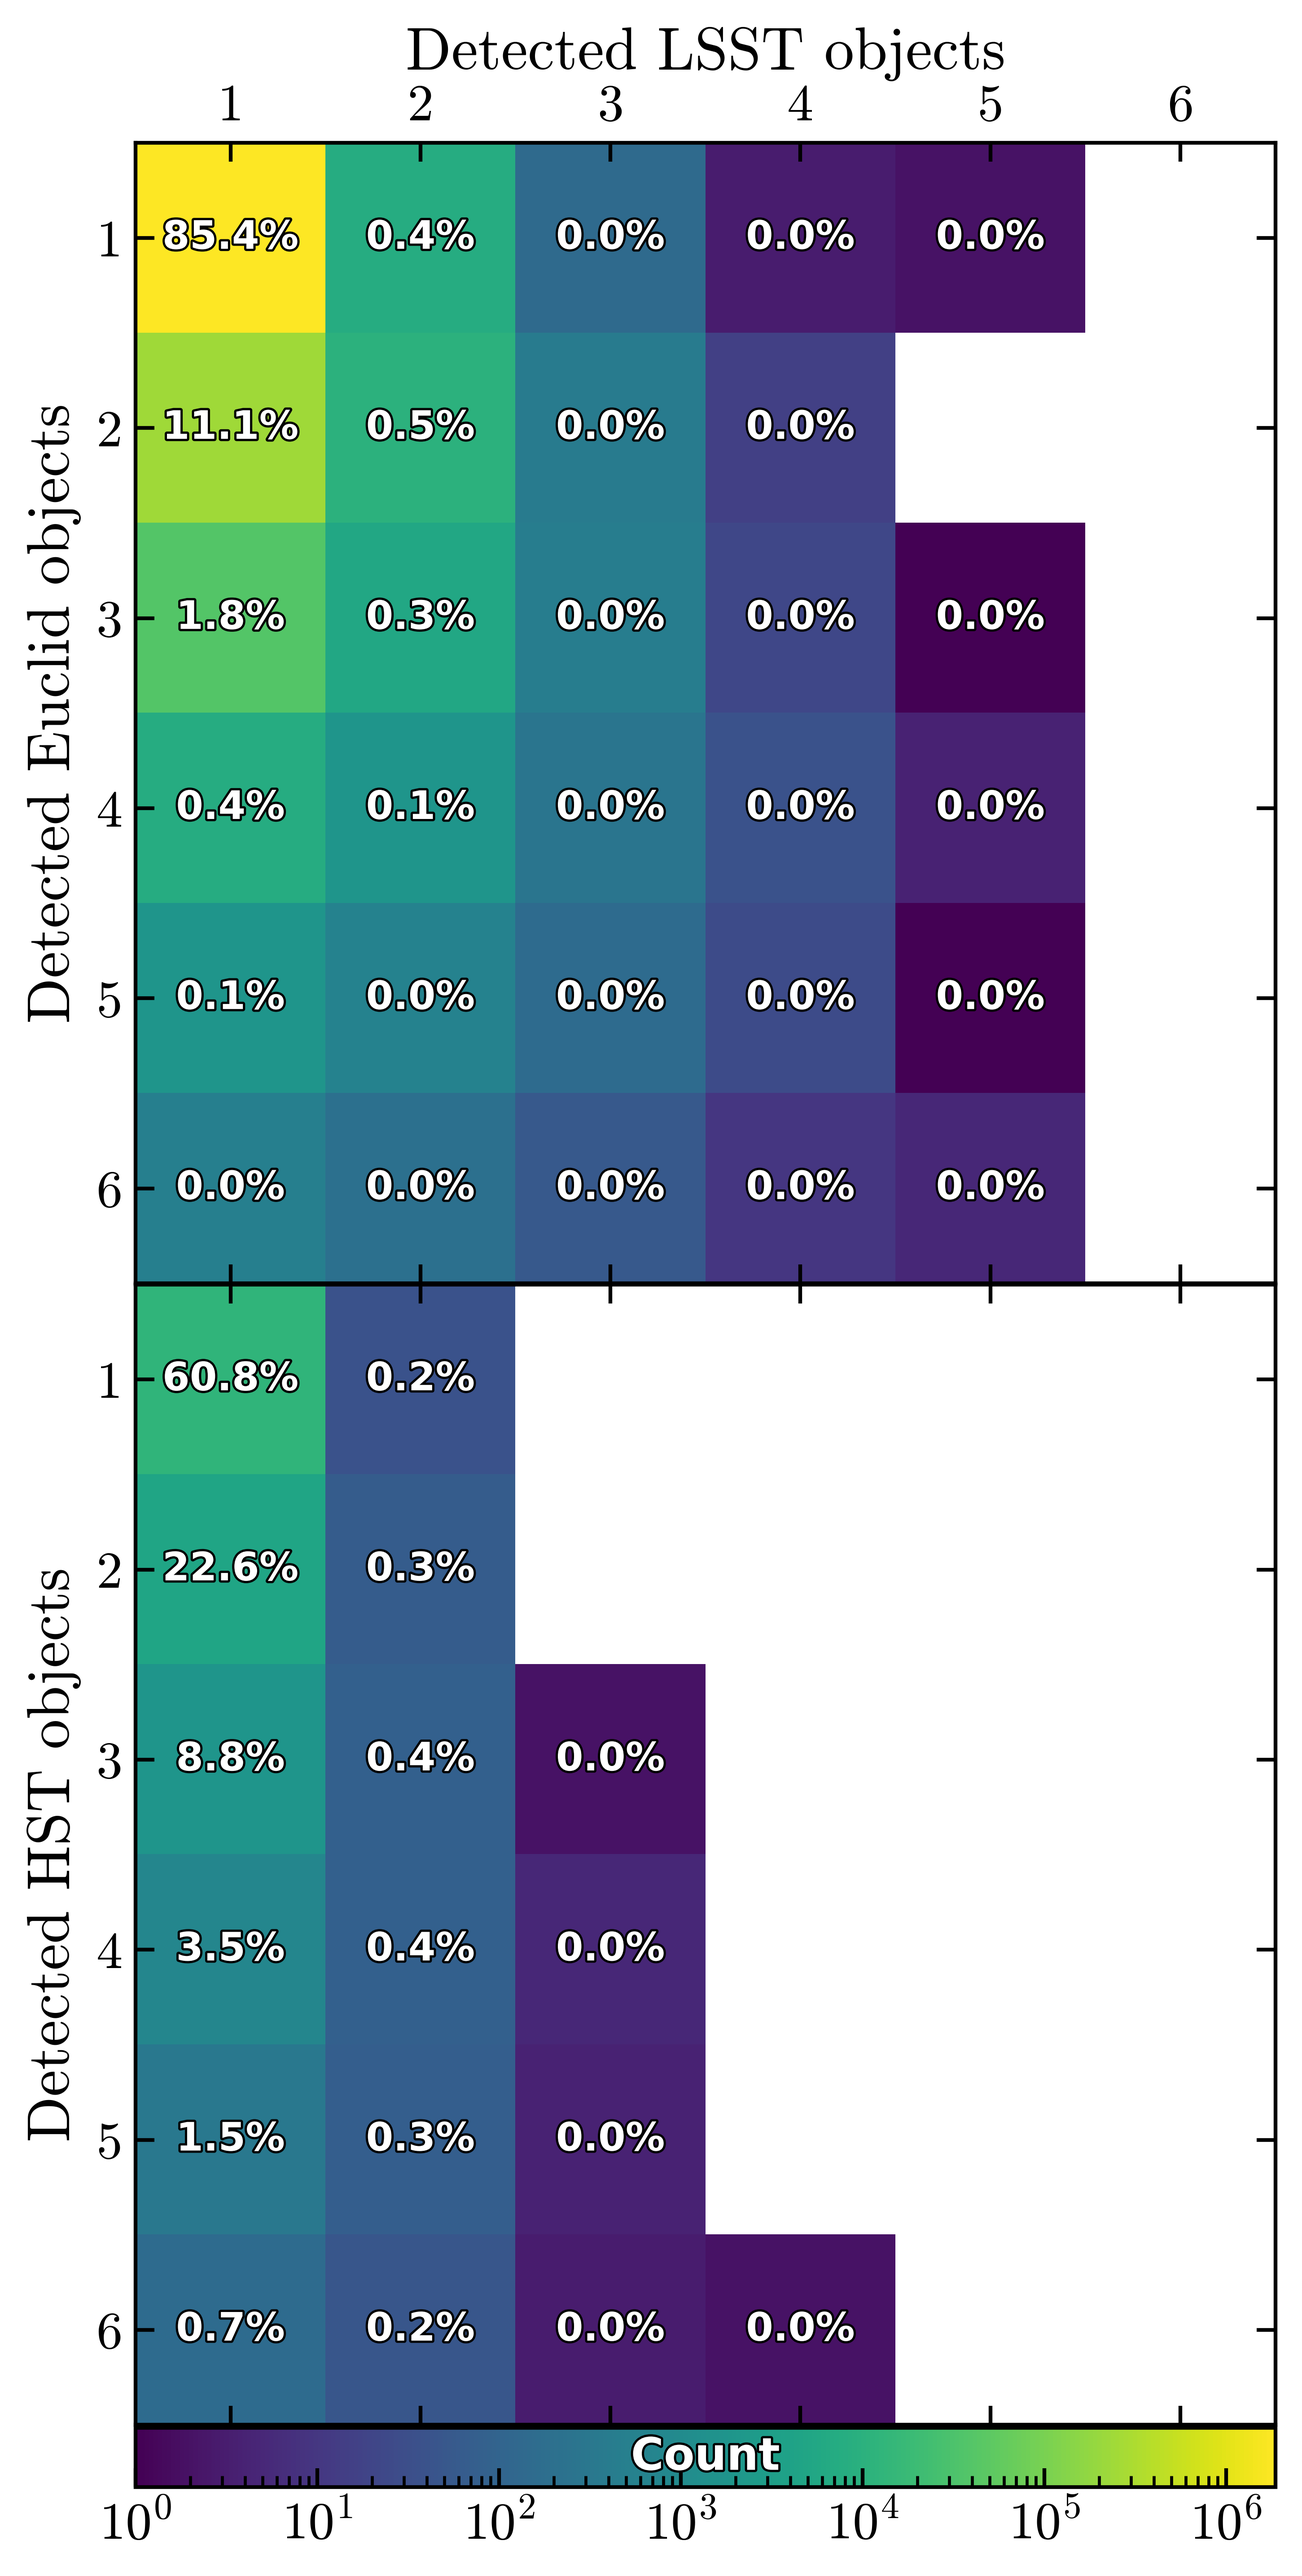
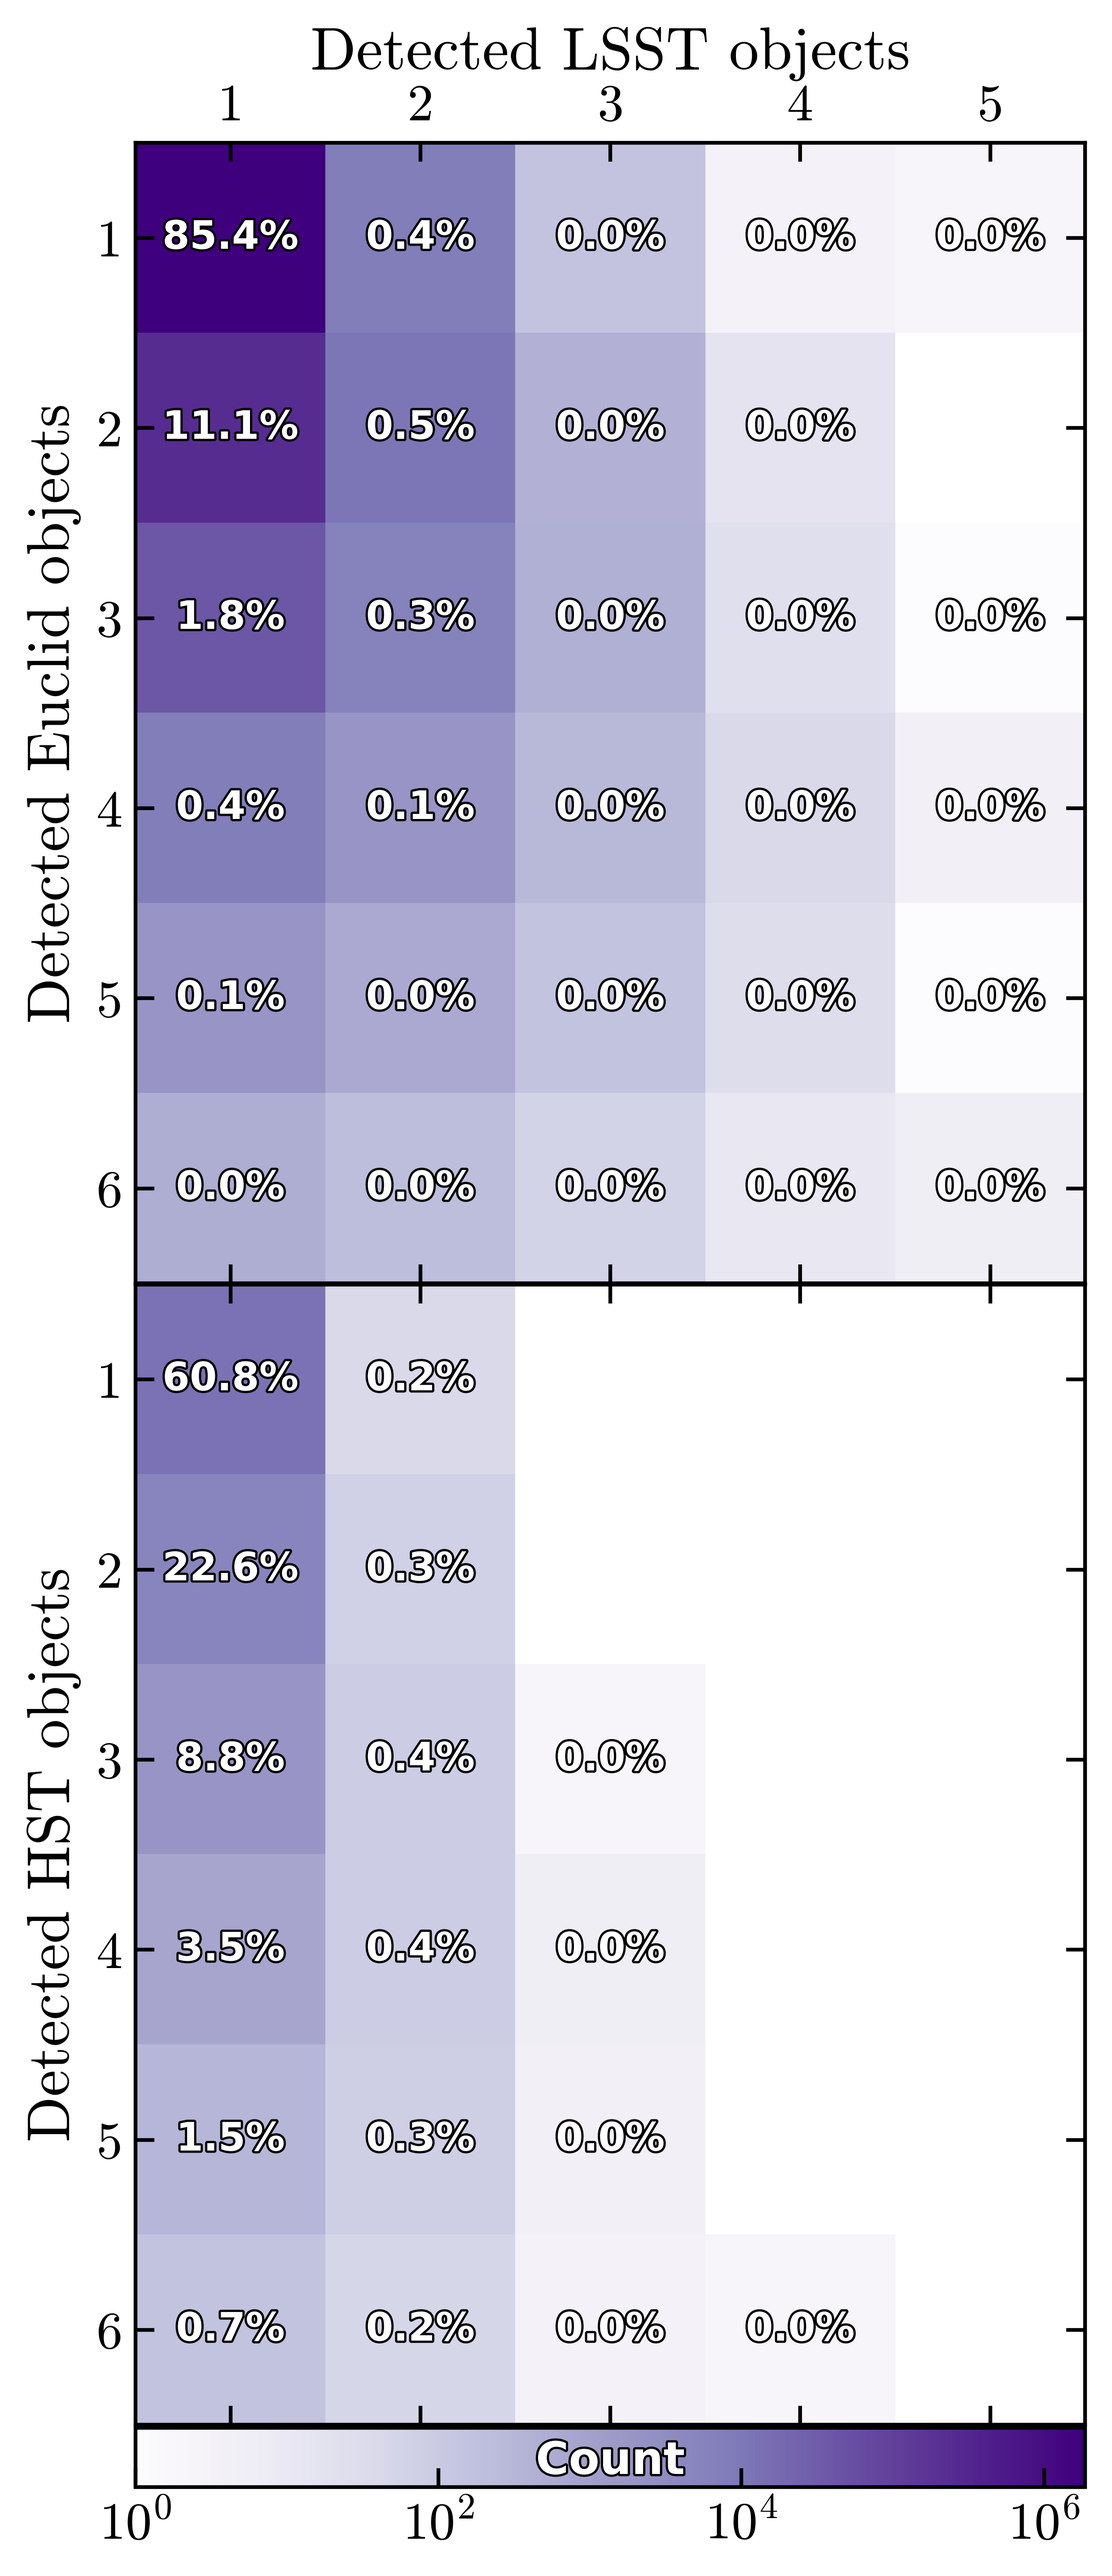
changed ecdfs graphs to explain the relevant range of lsst data and changed colormap for detect_counts

diff --git a/index.md b/index.md
@@ -8,7 +8,7 @@ Unrecognized blends, where the number of detected objects is smaller than the nu
 <!-- ECDFS | LSST DP1 and DP2 (what changes between the two) | Euclid Q1 | HST -->
 The Extended Chandra Deep Field South (ECDFS) is a deep-sky survey field that has been observed by multiples telescopes at different wavelengths due to its low galactic obscuration {cite}`Lehmer05`. The LSST Data Preview 1 (DP1) {cite}`RTN-095` and Data Preview 2 (DP2) {cite}`RTN-115` both cover the ECDFS field.
 
-The LSST DP datasets both have a pixel scale of 0.2 arcsec/pixel while the Euclid Q1 data has a pixel scale of 0.1 arcsec/pixel and the Hubble Space Telescope, hereafter HST, has a pixel scale of 0.05 arcsec/pixel.
+The LSST DP datasets both have a pixel scale of 0.2 arcsec/pixel while the Euclid Q1 data has a pixel scale of 0.1 arcsec/pixel and HST has a pixel scale of 0.05 arcsec/pixel.
 
 ```python
 repo='dp2_prep'
@@ -18,13 +18,15 @@ butler_cat = 'object'
 ```
 <!-- `LSSTCam/runs/DRP/DP2/v30_0_8/DM-55060/stage3` -->
 
-For LSST DP, point-like sources are removed with `i_extendedness == 1`.
+<!-- For LSST DP, point-like sources are removed with `i_extendedness == 1`. -->
 
-```{figure} ./assets/plots/ecdfs.png
+```{figure} ./assets/plots/ecdfs_two_panel_vertical.png
 :name: fig-ecdfs
 :alt: ECDFS
+:width: 100%
 
-One tenth of the detected galaxies in the ECDFS observed by LSST, Euclid and HST.
+Top: One tenth of the detected galaxies in the ECDFS observed by LSST. The blue region corresponds to our region of study we chose this region to not have the single visits effects (lower magnitude detections and artifacts). The grey region is discarded due to the presence of single visits. The circle discrimnating the two regions has a radius on the sky of  2.1 degrees and centered around the coordinates RA=53.05, Dec=-28.15 degrees.
+Bottom: One tenth of the detected galaxies in the ECDFS observed by LSST, Euclid and HST.
 ```
 
 <!-- | | LSST DP2 | Euclid | HST |
@@ -33,7 +35,7 @@ One tenth of the detected galaxies in the ECDFS observed by LSST, Euclid and HST
 | LSST DP2 data inside footprint | n/a | 2,416,305 | 33,240 |
 | Area $\left\lbrack\mathrm{deg}^2\right\rbrack$ | 43.35 | 15.53 | 0.18 | -->
 
-In the Euclid footprint of area ~$15.53 \, \mathrm{deg}^2$ there is a total of 5,328,489 galaxies detected in the VIS band and, in that same footprint there are 2,416,305 objects detected in the LSST DP2 dataset.\
+The Euclid footprint has an area of ~$15.53 \, \mathrm{deg}^2$ and contains a total of 5,328,489 galaxies detected in the VIS band and, in that same footprint there are 2,416,305 objects detected in the LSST DP2 dataset.\
 In the HST footprint of area ~$0.18 \, \mathrm{deg}^2$ there is a total of 165,776 galaxies detected in the F814W band and, in that same footprint there are 33,240 objects detected in the LSST DP2 dataset.
 
 In the following sections, we will refer as `objects` the sources detected in the LSST DP datasets and as `galaxies` the sources detected in the Euclid and HST datasets. We will also refer to `blends` as the objects that are associated with more than one galaxy. Moreover, the plots shown, unless stated otherwise, are for the LSST DP2 dataset. The results for the LSST DP1 dataset are similar and can be found in the Appendix of this technote.
@@ -54,6 +56,7 @@ After making this matching, we can compute the number of objects and galaxies pe
 ```{figure} ./assets/plots/detect_counts_cbar_on_bottom_vertical.png
 :name: fig-nm-groups
 :alt: N-M groups
+:width: 80%
 
 Result of the cross-matching of catalogs LSST-Euclid and LSST-HST using FoF+EOT matching method. Each bin in the 2D histogram represents a group for a given number of objects, meaning LSST detections in columns and galaxies, meaning Euclid detections (top) or HST detections (bottom) in rows. The colorbar indicates the number count of groups in each bin.
 ```
